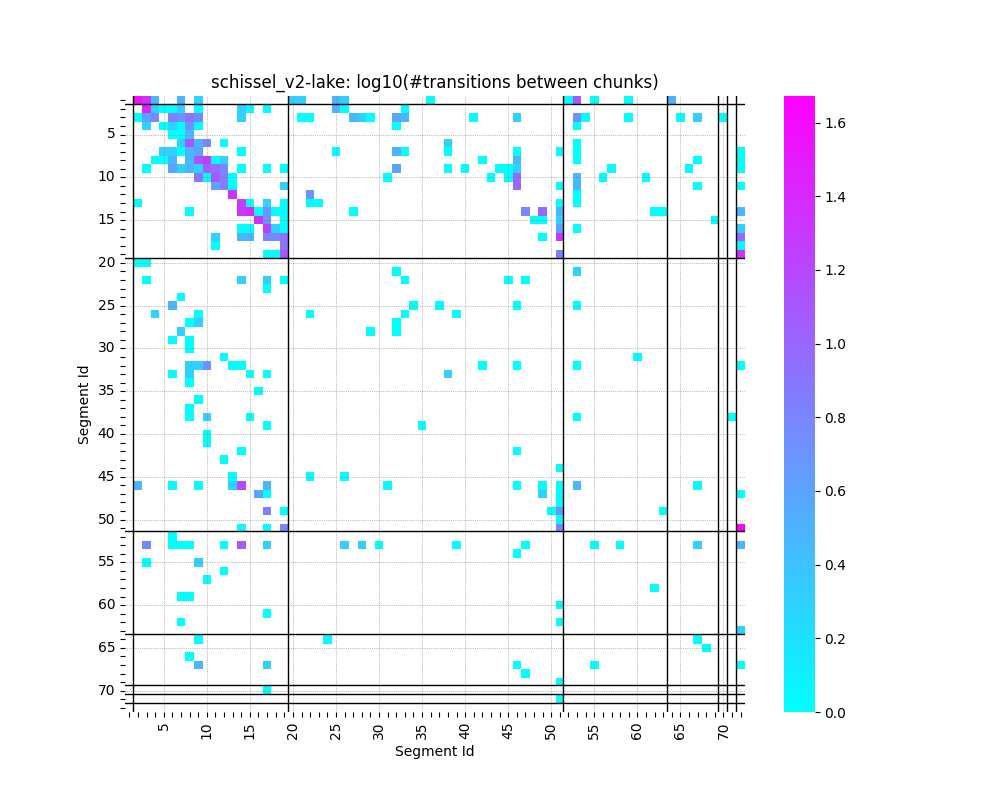
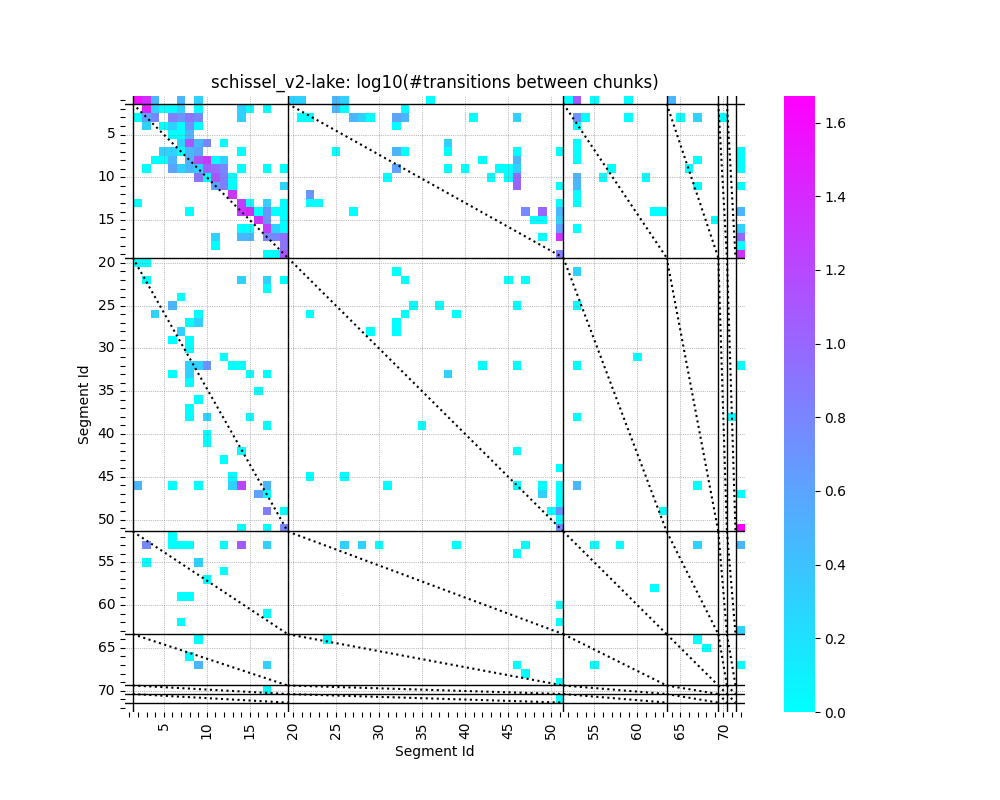
add transitions and fix errors

diff --git a/7e71ecbb7830fd69dc78ba1369a452129b88e980fdbb6d63285fbb8f912f/index.html b/7e71ecbb7830fd69dc78ba1369a452129b88e980fdbb6d63285fbb8f912f/index.html
@@ -87,6 +87,14 @@
             <li>
                 <a href="max_clause_id_vs_recall.html">Quality of recall vs its length</a> - max clause id vs recall
             </li>
+            <li>
+                <a href="max_clause_id_vs_recall.html">Quality of recall vs its length</a> - max clause id vs recall
+            </li>
+                        <li>
+                            <a href="transition_between_chunks.html">Transition between chunks</a> - Number of time when one 
+                            chunk suceeds by another
+                        </li>
+
         </ul>
     </section>
 

diff --git a/7e71ecbb7830fd69dc78ba1369a452129b88e980fdbb6d63285fbb8f912f/pearson_by_subject_p_value.html b/7e71ecbb7830fd69dc78ba1369a452129b88e980fdbb6d63285fbb8f912f/pearson_by_subject_p_value.html
@@ -147,7 +147,7 @@
         <a href="stein/pearson_by_subject_p_value.html">View Stein Final </a> |
         
         <div>
-            <img src="stein/pearson_by_subject_p_value.png"
+            <img src="stein_final/pearson_by_subject_p_value.png"
                 alt="Stein Final Chunks with Recalled Segments and Fun Out">
         </div>
     </section>

diff --git a/7e71ecbb7830fd69dc78ba1369a452129b88e980fdbb6d63285fbb8f912f/pearson_tuples_by_subject_p_value.html b/7e71ecbb7830fd69dc78ba1369a452129b88e980fdbb6d63285fbb8f912f/pearson_tuples_by_subject_p_value.html
@@ -85,7 +85,7 @@
 
     <section class="image-section" id="stein-final">
         <h2>Stein Final</h2>
-        <img src="stein/pearson_tuples_by_subject_p_value.png" alt="Stein Final">
+        <img src="stein_final/pearson_tuples_by_subject_p_value.png" alt="Stein Final">
     </section>
 
     <section class="image-section" id="triplett-v1-rookie">

diff --git a/7e71ecbb7830fd69dc78ba1369a452129b88e980fdbb6d63285fbb8f912f/recalled_and_related_segments.html b/7e71ecbb7830fd69dc78ba1369a452129b88e980fdbb6d63285fbb8f912f/recalled_and_related_segments.html
@@ -85,7 +85,7 @@
 
     <section class="image-section" id="stein-final">
         <h2>Stein Final</h2>
-        <img src="stein/recalled_and_related_segments.png" alt="Stein Final">
+        <img src="stein_final/recalled_and_related_segments.png" alt="Stein Final">
     </section>
 
     <section class="image-section" id="triplett-v1-rookie">

diff --git a/7e71ecbb7830fd69dc78ba1369a452129b88e980fdbb6d63285fbb8f912f/pearson_by_subject.html b/7e71ecbb7830fd69dc78ba1369a452129b88e980fdbb6d63285fbb8f912f/pearson_by_subject.html
@@ -147,7 +147,7 @@
         <a href="stein/pearson_by_subject.html">View Stein Final </a> |
         
         <div>
-            <img src="stein/pearson_by_subject.png"
+            <img src="stein_final/pearson_by_subject.png"
                 alt="Stein Final Chunks with Recalled Segments and Fun Out">
         </div>
     </section>

diff --git a/7e71ecbb7830fd69dc78ba1369a452129b88e980fdbb6d63285fbb8f912f/pearson_tuples_by_subject.html b/7e71ecbb7830fd69dc78ba1369a452129b88e980fdbb6d63285fbb8f912f/pearson_tuples_by_subject.html
@@ -86,7 +86,7 @@
 
     <section class="image-section" id="stein-final">
         <h2>Stein Final</h2>
-        <img src="stein/pearson_tuples_by_subject.png" alt="Stein Final">
+        <img src="stein_final/pearson_tuples_by_subject.png" alt="Stein Final">
     </section>
 
     <section class="image-section" id="triplett-v1-rookie">

diff --git a/7e71ecbb7830fd69dc78ba1369a452129b88e980fdbb6d63285fbb8f912f/percent_per_rank.html b/7e71ecbb7830fd69dc78ba1369a452129b88e980fdbb6d63285fbb8f912f/percent_per_rank.html
@@ -86,7 +86,7 @@
 
     <section class="image-section" id="stein-final">
         <h2>Stein Final</h2>
-        <img src="stein/percent_per_rank.png" alt="Stein Final">
+        <img src="stein_final/percent_per_rank.png" alt="Stein Final">
     </section>
 
     <section class="image-section" id="triplett-v1-rookie">

diff --git a/7e71ecbb7830fd69dc78ba1369a452129b88e980fdbb6d63285fbb8f912f/pearson_p_value.html b/7e71ecbb7830fd69dc78ba1369a452129b88e980fdbb6d63285fbb8f912f/pearson_p_value.html
@@ -85,7 +85,7 @@
 
     <section class="image-section" id="stein-final">
         <h2>Stein Final</h2>
-        <img src="stein/pearson_p_value.png" alt="Stein Final">
+        <img src="stein_final/pearson_p_value.png" alt="Stein Final">
     </section>
 
     <section class="image-section" id="triplett-v1-rookie">
